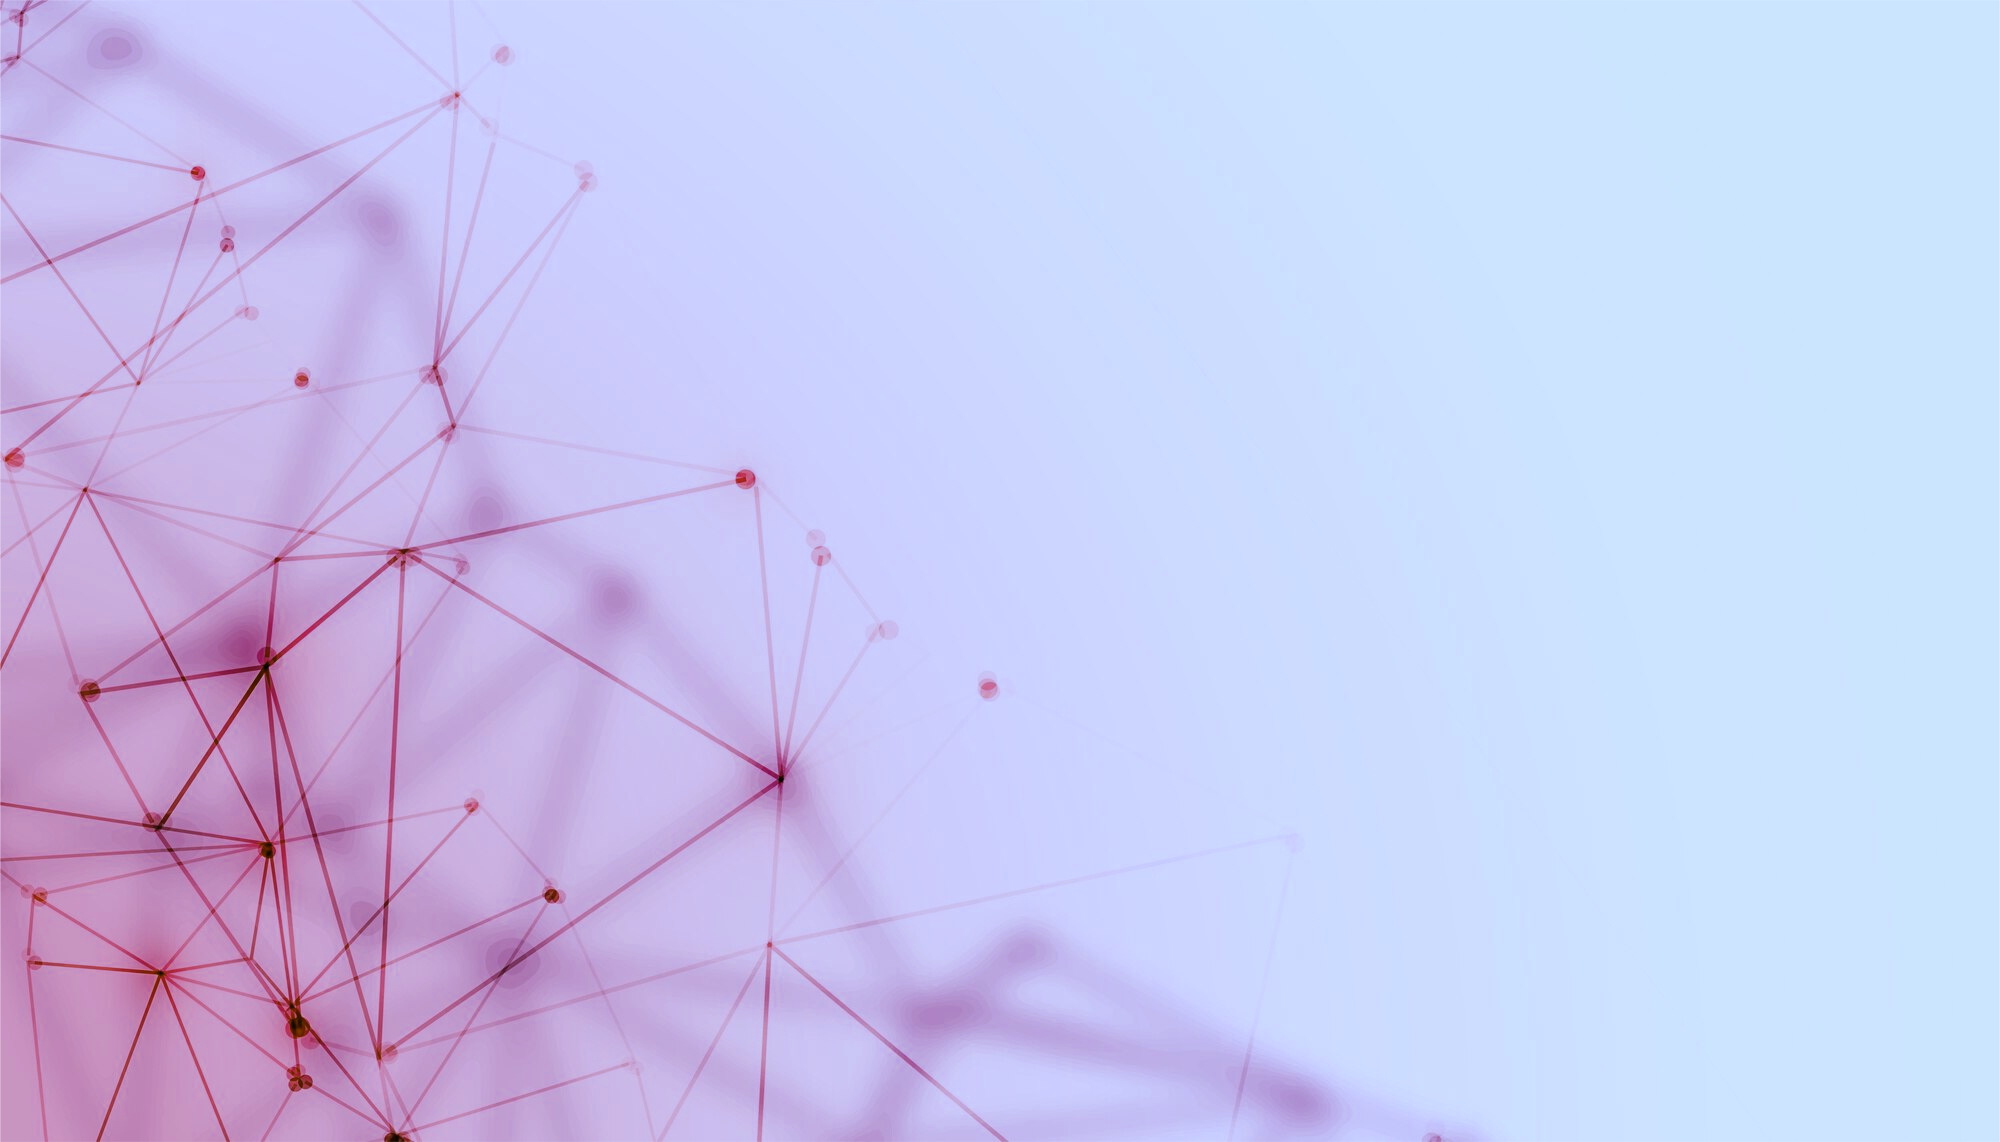
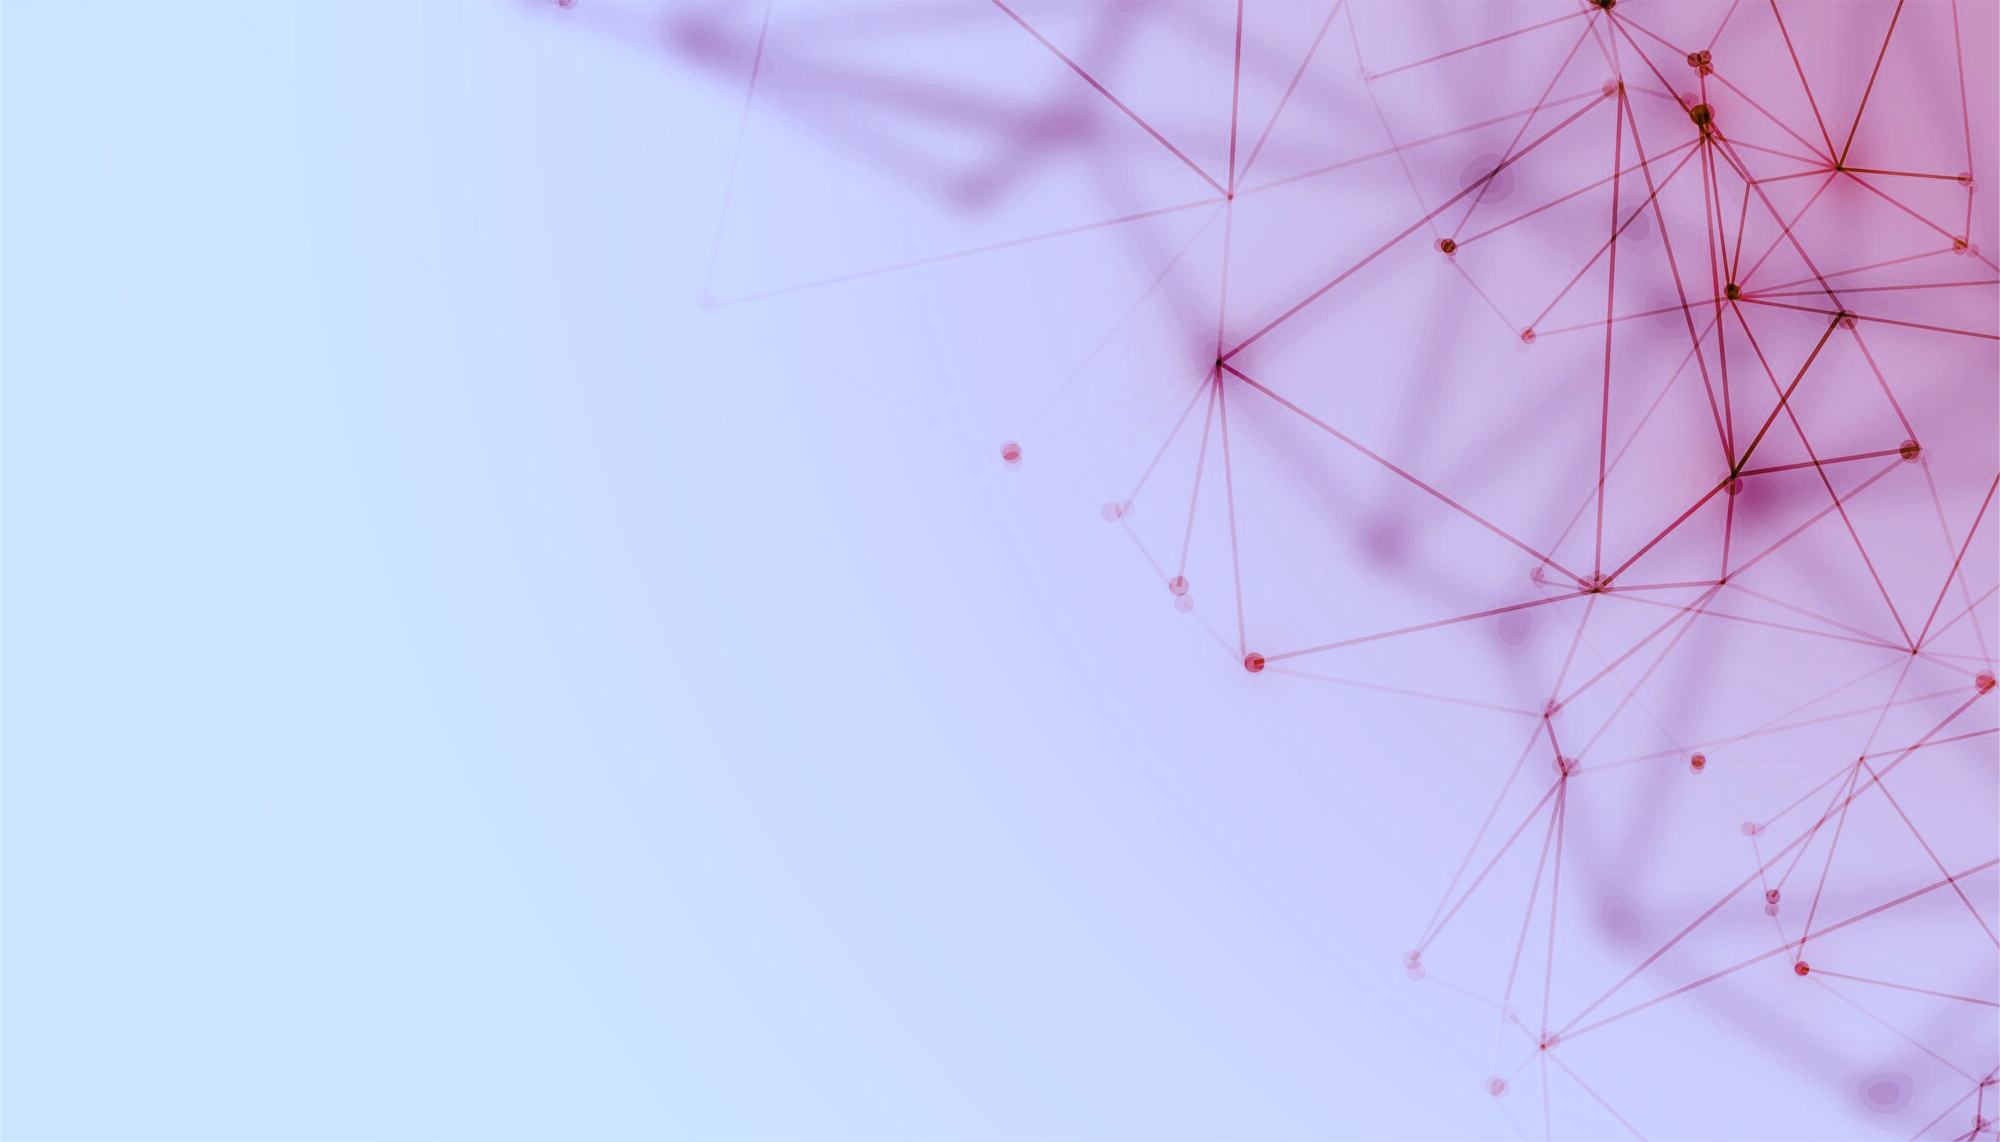
Update background image and home components
- Updated `src/assets/img/bg.png` with a new background image.
- Modified `src/components/ProductsSection.tsx` to improve product display.
- Updated `src/components/home.tsx` for better layout and styling.

diff --git a/src/components/ProductsSection.tsx b/src/components/ProductsSection.tsx
@@ -46,25 +46,25 @@ interface Product {
   name: string;
   description: string;
   icon: React.ReactNode;
-  category: "TECHSA" | "INVOS" | "TSSAD";
+  category: "KIOSK" | "SOLUTIONS" | "SERVICES";
   image?: string;
   details?: string;
 }
 
 const ProductsSection = () => {
   const [activeCategory, setActiveCategory] = useState<
-    "TECHSA" | "INVOS" | "TSSAD"
-  >("TECHSA");
+    "KIOSK" | "SOLUTIONS" | "SERVICES"
+  >("KIOSK");
 
   const products: Product[] = [
-    // TECHSA Products
+    // KIOSK Products
     {
       id: "visitor-kiosk",
       name: "Visitor Management Kiosk",
       description:
         "Streamline visitor registration and management with our advanced kiosk solution.",
       icon: <Users size={24} />,
-      category: "TECHSA",
+      category: "KIOSK",
       image:
         visitorkiosk,
       details:
@@ -76,7 +76,7 @@ const ProductsSection = () => {
       description:
         "Enhance customer shopping experience with self-service retail kiosks.",
       icon: <ShoppingBag size={24} />,
-      category: "TECHSA",
+      category: "KIOSK",
       image:
         retailkiosk,
       details:
@@ -88,7 +88,7 @@ const ProductsSection = () => {
       description:
         "Simplify HR processes with employee self-service kiosks for attendance and more.",
       icon: <Users size={24} />,
-      category: "TECHSA",
+      category: "KIOSK",
       image:
         hrmskiosk,
       details:
@@ -100,7 +100,7 @@ const ProductsSection = () => {
       description:
         "Enable customers to print statements and reports securely with ease.",
       icon: <FileText size={24} />,
-      category: "TECHSA",
+      category: "KIOSK",
       image:
         reportkiosk,
       details:
@@ -112,21 +112,21 @@ const ProductsSection = () => {
       description:
         "Provide interactive information access to customers and visitors.",
       icon: <Monitor size={24} />,
-      category: "TECHSA",
+      category: "KIOSK",
       image:
         infokisok,
       details:
         "Information Kiosks serve as digital concierges, providing users with wayfinding assistance, product information, service details, and promotional content. These interactive displays feature intuitive touchscreen interfaces, multilingual support, and accessibility options to serve diverse user populations.",
     },
 
-    // INVOS Products
+    // SOLUTIONS Products
     {
       id: "self-service",
       name: "Self-Service Kiosk Applications",
       description:
         "Comprehensive applications for various self-service scenarios.",
       icon: <Smartphone size={24} />,
-      category: "INVOS",
+      category: "SOLUTIONS",
       image:
         self_service,
       details:
@@ -137,7 +137,7 @@ const ProductsSection = () => {
       name: "Remote Monitoring Solutions",
       description: "Monitor and manage your kiosk network from anywhere in real-time.",
       icon: <Server size={24} />,
-      category: "INVOS",
+      category: "SOLUTIONS",
       image:
         remote_monitor,
       details:
@@ -149,21 +149,21 @@ const ProductsSection = () => {
       description:
         "Streamline payment collection processes with our integrated solutions.",
       icon: <Database size={24} />,
-      category: "INVOS",
+      category: "SOLUTIONS",
       image:
         collmngmt,
       details:
         "Our Collection Management Solutions automate and optimize the entire payment collection lifecycle. The system handles multiple payment methods, provides real-time reconciliation, generates comprehensive reports, and integrates with accounting systems. Advanced features include recurring payment scheduling, automated reminders, and fraud detection.",
     },
 
-    // TSSAD Products
+    // SERVICES Products
     {
       id: "digital-banking",
       name: "Digital Banking Unit",
       description:
         "Complete digital banking solution for modern financial institutions.",
       icon: <CreditCard size={24} />,
-      category: "TSSAD",
+      category: "SERVICES",
       image:
         digitalbanking,
       details:
@@ -174,7 +174,7 @@ const ProductsSection = () => {
       name: "Transport Kiosk",
       description: "Self-service kiosks for transportation hubs and services streamlining passenger experiences.",
       icon: <Train size={24} />,
-      category: "TSSAD",
+      category: "SERVICES",
       image:
         transportkiosk,
       details:
@@ -185,7 +185,7 @@ const ProductsSection = () => {
       name: "Consultative Kiosk",
       description: "Interactive kiosks for customer consultation and service with personalized assistance.",
       icon: <Users size={24} />,
-      category: "TSSAD",
+      category: "SERVICES",
       image:
         consultativekiosk,
       details:
@@ -197,7 +197,7 @@ const ProductsSection = () => {
       description:
         "Comprehensive banking services in a self-service kiosk format.",
       icon: <Building size={24} />,
-      category: "TSSAD",
+      category: "SERVICES",
       image:
         bankingkiosk,
       details:
@@ -265,29 +265,29 @@ const ProductsSection = () => {
         </motion.div>
 
         <Tabs
-          defaultValue="TECHSA"
+          defaultValue="KIOSK"
           className="w-full"
           onValueChange={(value) => setActiveCategory(value as any)}
         >
           <div className="flex justify-center mb-10">
             <TabsList className="grid w-full max-w-md grid-cols-3 bg-gray-200 dark:bg-gray-800 transition-colors duration-300 h-100">
               <TabsTrigger
-                value="TECHSA"
+                value="KIOSK"
                 className="text-sm md:text-base data-[state=active]:bg-white dark:data-[state=active]:bg-gray-700 transition-colors duration-300 py-3 data-[state=active]:text-red-600"
               >
-                TECHSA
+                KIOSK
               </TabsTrigger>
               <TabsTrigger
-                value="INVOS"
+                value="SOLUTIONS"
                 className="text-sm md:text-base data-[state=active]:bg-white dark:data-[state=active]:bg-gray-700 transition-colors duration-300 py-3 data-[state=active]:text-red-600"
               >
-                INVOS
+                SOLUTIONS
               </TabsTrigger>
               <TabsTrigger
-                value="TSSAD"
+                value="SERVICES"
                 className="text-sm md:text-base data-[state=active]:bg-white dark:data-[state=active]:bg-gray-700 transition-colors duration-300 py-3 data-[state=active]:text-red-600"
               >
-                TSSAD
+                SERVICES
               </TabsTrigger>
             </TabsList>
           </div>

diff --git a/src/components/home.tsx b/src/components/home.tsx
@@ -66,11 +66,11 @@ function Home() {
       {/* Products Section */}
       <ProductsSection />
 
-      {/* Services Section */}
-      <ServicesSection />
-
       {/* Clients Section */}
       <ClientsSection />
+
+      {/* Services Section */}
+      <ServicesSection />
 
       {/* Client Logo Slider */}
       {/* <ClientLogoSlider logos={bankLogos} /> */}
